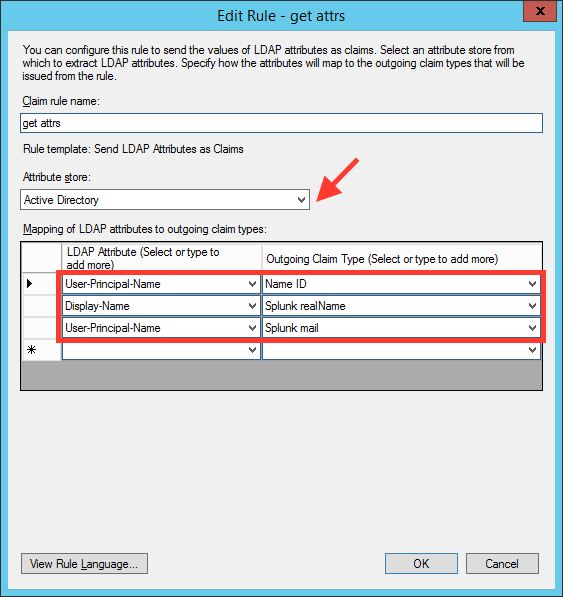
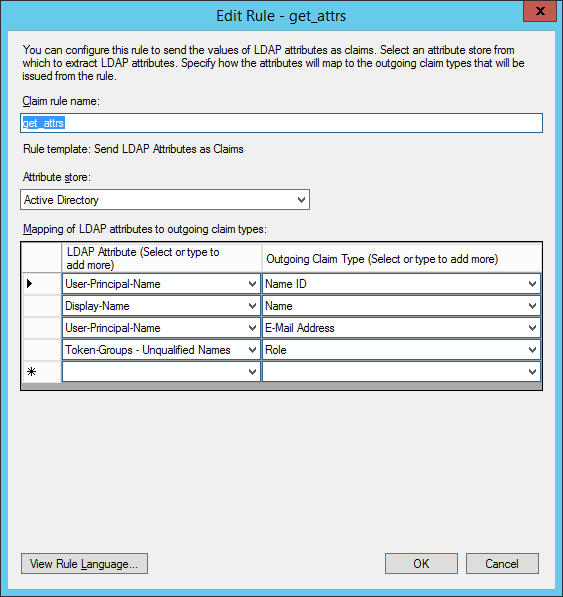
Support SAML for Splunk 6.4 and 6.5

diff --git a/README.md b/README.md
@@ -300,29 +300,9 @@ On the ADFS side:
     - then browse to `https://splunk-sh.internal.corp.tld/saml/spmetadata`, and copy/paste the SAML metadata XML to the Windows server. 
     - import the SAML metadata XML from the relying party (Splunk) from a file
 
-1. Add 3 new claim descriptions for:
-
-    - role
-    - realName
-    - mail
-
-   ![ADFS claim descriptions for Splunk](adfs_claim_descriptions.png)
-
-1. Add a new claim rule to map Active Directory attributes to the new claim descriptions created above:
+1. Add a new claim rule to map Active Directory attributes to new claims
    
    ![ADFS get attributes claim rule for Splunk](adfs_claim_rules_get_attrs.png)
-
-1. Add a new claim rule to map Domain Admins to the `role` claim attribute:
-
-   ![ADFS map admins claim rule for Splunk](adfs_claim_rule_group_membership_admins.png)
-
-1. Add a new claim rule to map Domain Users to the `role` claim attribute:
-
-   ![ADFS map users claim rule for Splunk](adfs_claim_rule_group_membership_users.png)
-
-   The rules overview should look something like this:
-
-   ![ADFS show all claim rules for Splunk](adfs_claim_rules.png)
 
 1. import the Splunk Root CA (/opt/splunk/etc/auth/cacert.pem) in the Trusted Root Certificates store of the Windows server,
 1. If you're using your own certificates: `Set-ADFSRelyingPartyTrust -TargetIdentifier splunk-sh1.internal.corp.tld -EncryptionCertificateRevocationCheck none`
@@ -330,13 +310,41 @@ On the ADFS side:
 1. `Set-ADFSRelyingPartyTrust -TargetIdentifier splunk-sh1.internal.corp.tld -EncryptClaims $False`
 1. `Set-ADFSRelyingPartyTrust -TargetIdentifier splunk-sh1.internal.corp.tld -SignedSamlRequestsRequired $False`, otherwise you'll find messages like these in the Windows Eventlog: `System.NotSupportedException: ID6027: Enveloped Signature Transform cannot be the last transform in the chain.`
 
-For some reason the ADFS side doesn't like the AuthnRequests that Splunk sends, so `signAuthnRequest = false` is set in Splunk if you use `saml_idptype => 'ADFS'`.
-
-Logout doesn't work by the way, throws this error:
+You can use the SAML tracer Firefox plugin to see what gets posted to Splunk via ADFS after a succesful authentication. The relevant part should look something like this:
 
 ```
-Malformed SAML document(Assertion) received from IDP Please provide a diag for analysis. 
+        ...
+        <Subject>
+            <NameID>jfolmer@testlab.local</NameID>
+            <SubjectConfirmation Method="urn:oasis:names:tc:SAML:2.0:cm:bearer">
+                <SubjectConfirmationData InResponseTo="host15.testlab.local.12.AF9F4C1A-EAEA-4EF5-A501-E57AB33D7776"
+                                         NotOnOrAfter="2016-11-04T21:23:34.597Z"
+                                         Recipient="https://host15.testlab.local:8000/saml/acs"
+                                         />
+            </SubjectConfirmation>
+        </Subject>
+        <Conditions NotBefore="2016-11-04T21:18:34.581Z"
+                    NotOnOrAfter="2016-11-04T22:18:34.581Z"
+                    >
+            <AudienceRestriction>
+                <Audience>host15.testlab.local</Audience>
+            </AudienceRestriction>
+        </Conditions>
+        <AttributeStatement>
+            <Attribute Name="http://schemas.xmlsoap.org/ws/2005/05/identity/claims/name">
+                <AttributeValue>Jorrit Folmer</AttributeValue>
+            </Attribute>
+            <Attribute Name="http://schemas.xmlsoap.org/ws/2005/05/identity/claims/emailaddress">
+                <AttributeValue>jfolmer@testlab.local</AttributeValue>
+            </Attribute>
+            <Attribute Name="http://schemas.microsoft.com/ws/2008/06/identity/claims/role">
+                <AttributeValue>Domain Users</AttributeValue>
+                <AttributeValue>Splunk Admins</AttributeValue>
+            </Attribute>
+        </AttributeStatement>
+        ...
 ```
+
 
 ### Example 6
 
@@ -575,6 +583,10 @@ However, if you still have versions < 6.2 , pass `sslcompatibility => 'intermedi
 If you have version >= 6.2.0 servers but with stock settings from a previous Splunk installation, also pass `sslcompatibility => 'intermediate'` in the universal forwarder declaration, otherwise the SSL connections to the deploymentserver will fail.
 
 ## Changelog
+
+### 2.1.2
+
+- Improved SAML support and updated settings for Splunk 6.4 and Splunk 6.5
 
 ### 2.1.1
 
